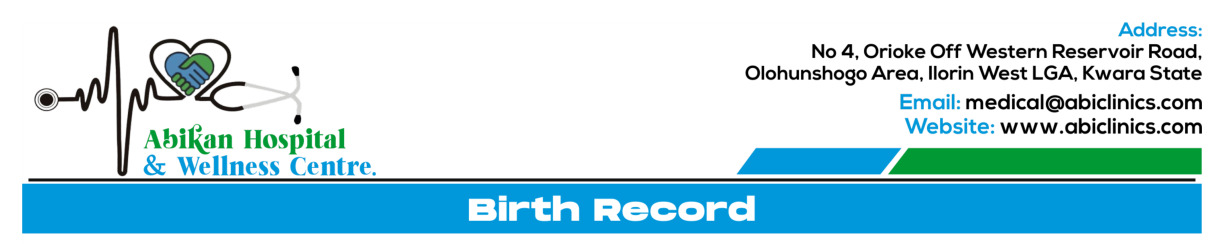
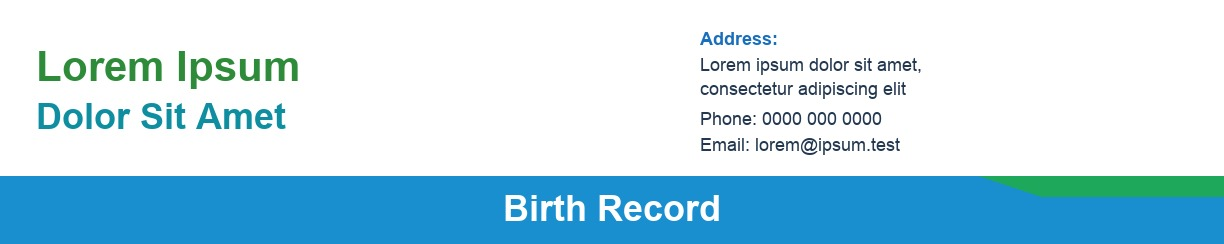
Replace this hospital's letterhead with placeholder text.
A buying hospital can put in its own name, address, and phone later.

diff --git a/abikan-shell/server/patient-account/hmo_bills_test.py b/abikan-shell/server/patient-account/hmo_bills_test.py
@@ -32,7 +32,7 @@ class HmoBillsTest(unittest.TestCase):
         self.assertIn("Amount due from the HMO", html)
         self.assertNotIn("Already paid", html)
         self.assertIn("Hygeia", html)
-        self.assertIn("0803 555 0142", html)
+        self.assertIn("0000 000 0000", html)
 
     def test_both_coverage_types_are_listed(self) -> None:
         bodies = hmo_bills.list_bodies(

diff --git a/abikan-shell/server/patient-account/hmo_bills.py b/abikan-shell/server/patient-account/hmo_bills.py
@@ -18,8 +18,8 @@ import hospital_admin
 import server as core
 
 HOSPITAL_NAME = "Hospital EMR"
-HOSPITAL_PHONE = "0803 555 0142"
-HOSPITAL_EMAIL = "accounts@abikanhospital.test"
+HOSPITAL_PHONE = "0000 000 0000"
+HOSPITAL_EMAIL = "lorem@ipsum.test"
 _EMAIL = re.compile(r"^[^@\s]+@[^@\s]+\.[^@\s]+$")
 
 
